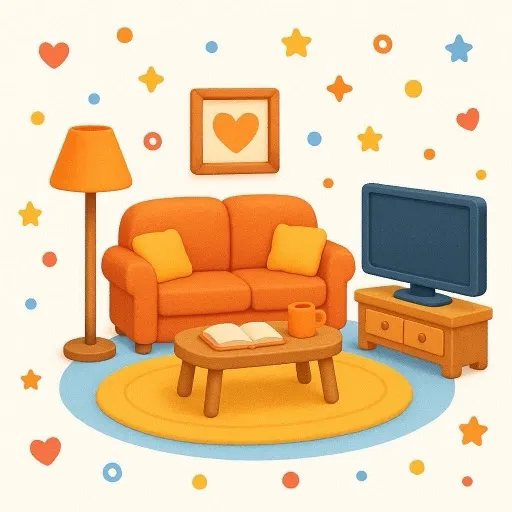
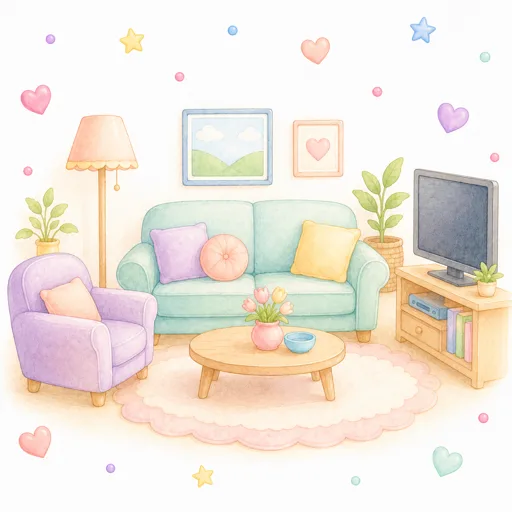
sedam slika prebaceno u mek pastelni stil (butaca + sest prostorija)
Vlasnica: „butaca je ruzna, zelim lepe pastelne boje kao sto su na xemeneia" i
„cuina, sala destar i mozda jos neka iz teme 5 su slika sa binga".

Pogledao sam sve prostorije u temi 5 — nisu bile dve nego SVIH SEST u ravnom
stilu sa debelom konturom, dok je ostatak igrice mek pastel. U temi 5 stoje
jedna do druge, pa se razlika najvise tu i videla.

Ponovo napravljeno (ChatGPT), po uzoru na `xemeneia2` i `sofa`:
  butaca · cuina · sala-d-estar · dormitori · lavabo · menjador-casa · terrassa

Stare slike NISU obrisane nego stoje kao `_zamenjeno-*` u `Ilustracije/`.

DVE ZAMKE, obe kostale vremena — zapisujem da se ne ponove:
1. APOSTROF RUSI SLANJE. Prompt se salje kroz AppleScript, a `quoted form of`
   apostrof pretvori u `'\''` — sto u JS-u nije ispravan niz. Zato „sala
   d'estar" nikad nije stiglo do ChatGPT-a, a skripta je tvrdila da jeste.
   Promptovi se pisu BEZ apostrofa.
2. „Stigla je nova slika" NIJE isto sto i „stigla je TRAZENA slika". Prva
   verzija je slala ponovo kad brojac ne poraste za 25 s, pa je kuhinja
   narucena dvaput, a dnevna soba nijednom — a skripta je javila uspeh.
   Sada se pre cekanja PROVERI da poslednja poruka u razgovoru bas ta i jeste.

Pun test: 27/27. Kes catala-v75.

diff --git a/public/sw.js b/public/sw.js
@@ -1,4 +1,4 @@
-const CACHE_NAME = "catala-v74";
+const CACHE_NAME = "catala-v75";
 const STATIC_ASSETS = [
   "/",
   "/manifest.json",
